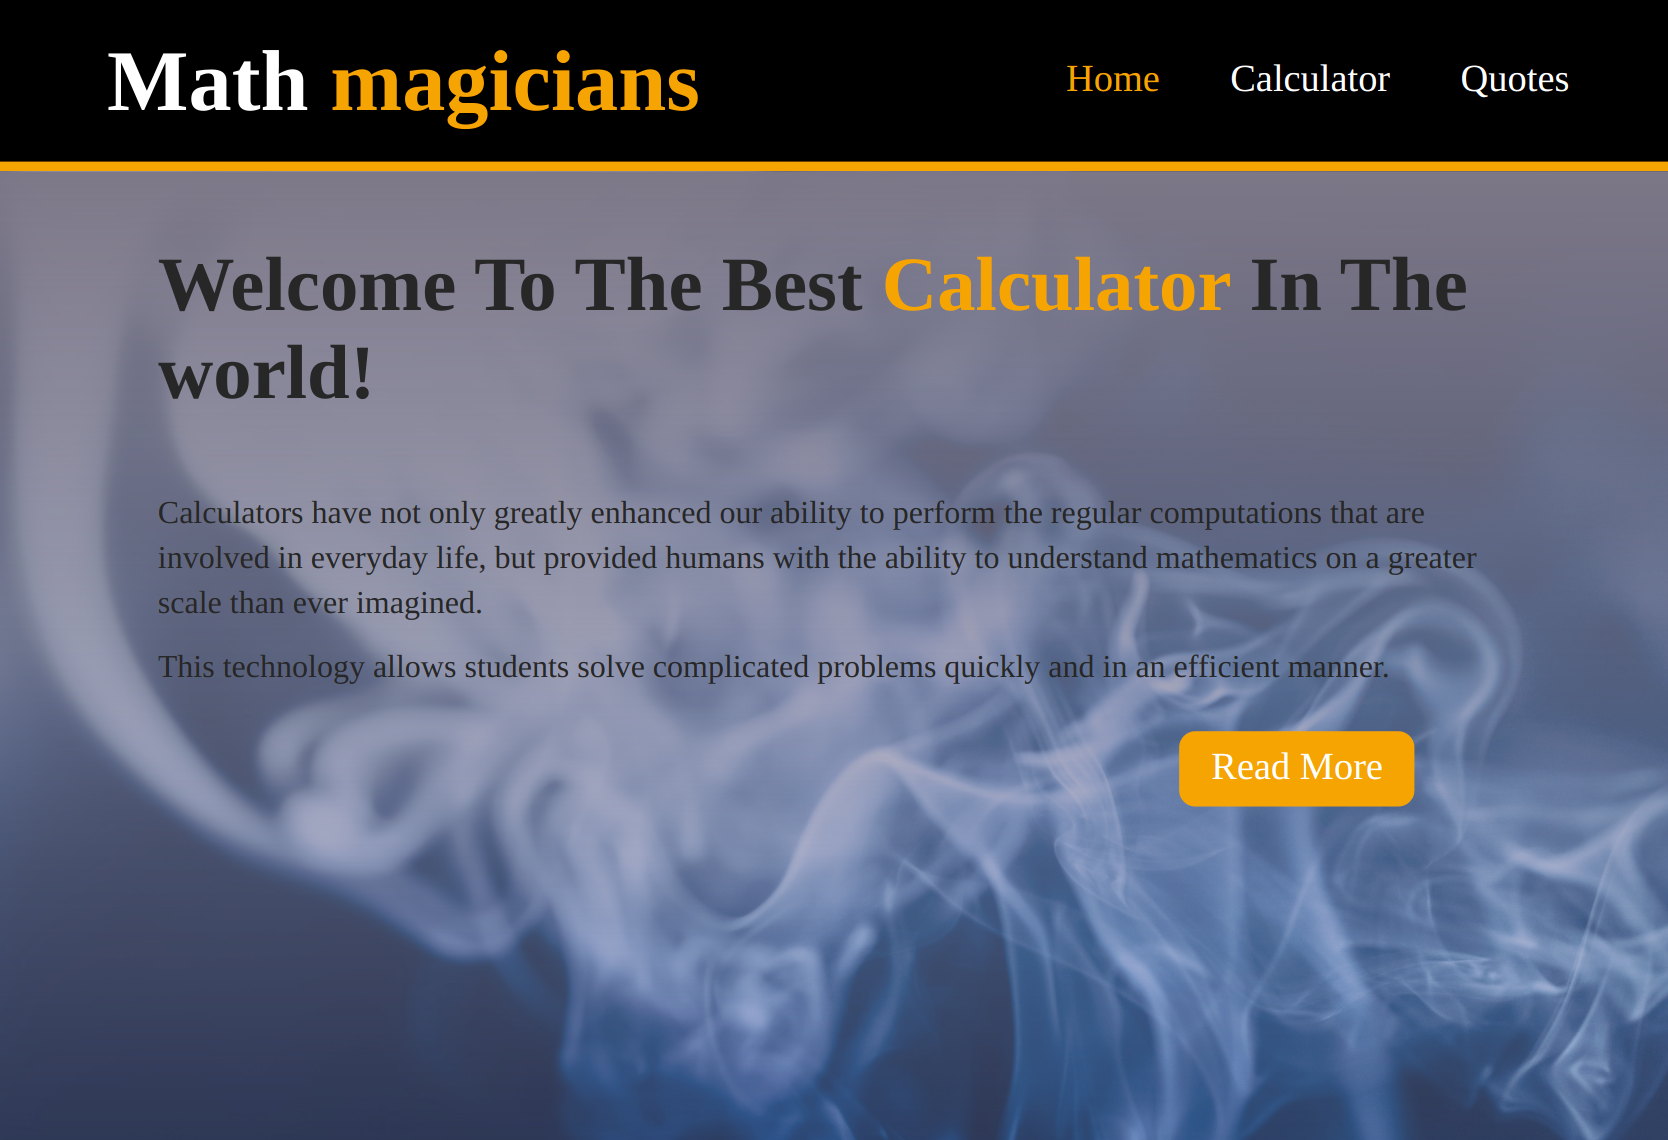
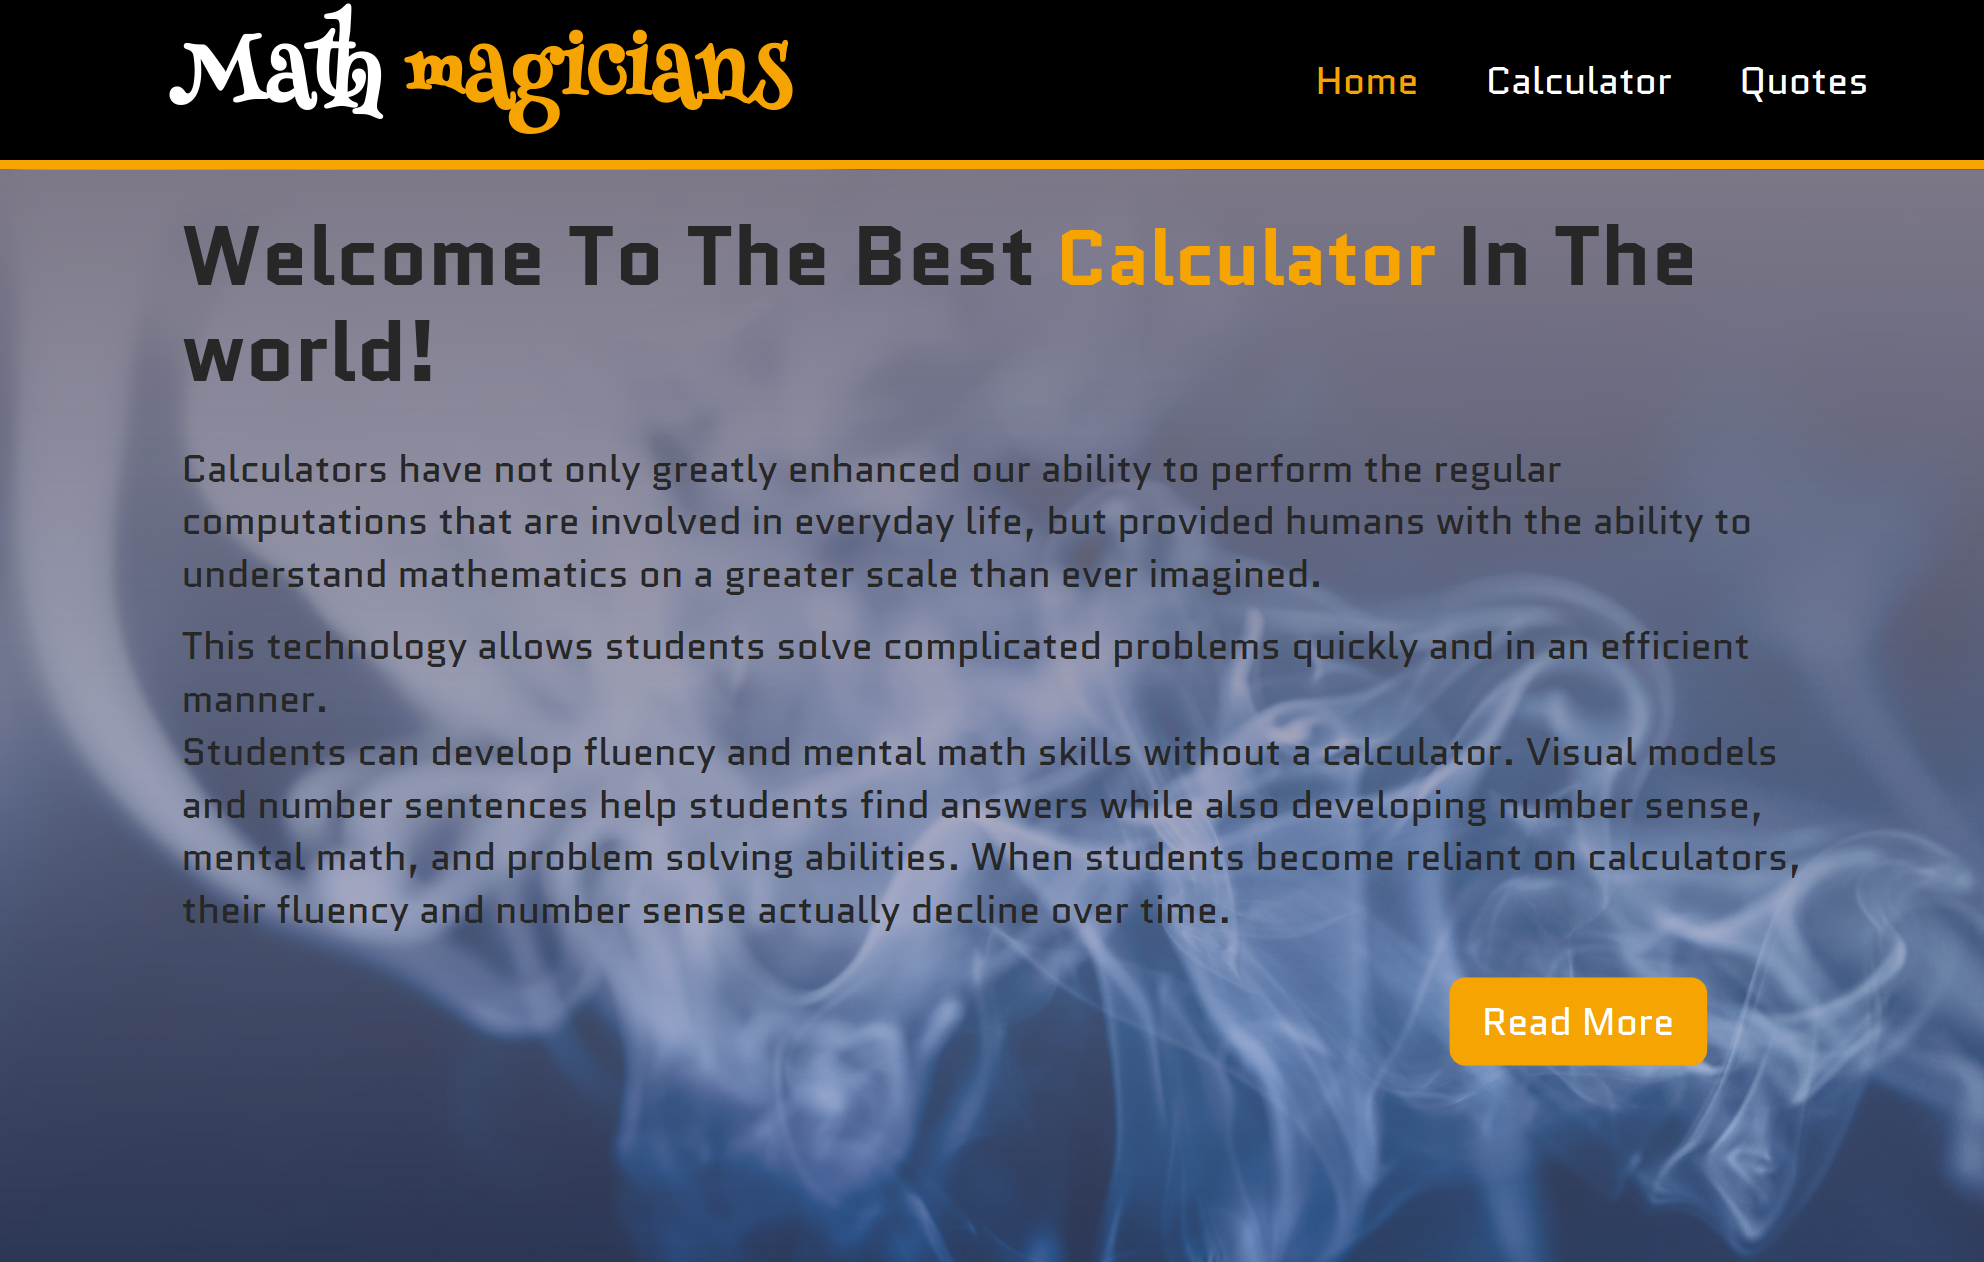
Update README pictures

diff --git a/src/css/App.css b/src/css/App.css
@@ -44,9 +44,11 @@ h1 {
   color: #fff;
   line-height: 80px;
   text-align: center;
+  font-family: "Henny Penny", cursive;
 }
 h1 span {
   color: orange;
+  font-family: "Henny Penny", cursive;
 }
 
 .nav-item {
@@ -64,7 +66,7 @@ h1 span {
 
 .second-title {
   font-size: 2.4rem;
-  line-height: 3rem;
+  line-height: 2.8rem;
   color: #272727;
 }
 .second-title span {
@@ -79,7 +81,7 @@ section.home-section .paragraph {
   padding: 1rem 0;
 }
 section.home-section .paragraph p {
-  font-size: 1.4rem;
+  font-size: 1.2rem;
 }
 section.home-section .show {
   display: none;
@@ -110,8 +112,9 @@ section.quote-section {
 }
 section.quote-section p {
   font-size: 1.4rem;
-  line-height: 3rem;
-  letter-spacing: 2px;
+  font-weight: 700;
+  line-height: 2.8rem;
+  letter-spacing: 1.8px;
   font-family: "Henny Penny", cursive;
 }
 
@@ -231,7 +234,6 @@ main .calculator-section .keyItem:last-child button:first-child {
   }
   main .home-section h2 {
     font-size: 2.4rem;
-    padding: 1rem 0;
   }
 }
 @media screen and (min-width: 768px) {
@@ -255,8 +257,8 @@ main .calculator-section .keyItem:last-child button:first-child {
   }
 
   main .home-section h2 {
-    font-size: 2.9rem;
-    line-height: 3.8rem;
+    font-size: 2.6rem;
+    line-height: 3rem;
   }
   main .keyItem .btn {
     height: 70px;

diff --git a/src/scss/App.scss b/src/scss/App.scss
@@ -14,7 +14,6 @@
 
 body {
   width: 100%;
-  // height: 100%;
   background-color: #f9f9f9;
 }
 
@@ -36,12 +35,10 @@ main {
     height: 100vh;
     flex-direction: column;
     justify-content: flex-start;
-    // align-items: flex-start;
     padding: 0 1rem;
     text-align: center  ;
 
     h2 {
-      // width: 30%;
       font-size: 2rem;
       font-family: 'Henny Penny', cursive;
       letter-spacing: 4px;
@@ -51,7 +48,6 @@ main {
 
   .calculator-section {
     max-width: 500px;
-    // width: 70%;
     border: 1px solid $text-color;
 
     .input {

diff --git a/src/scss/_responsive.scss b/src/scss/_responsive.scss
@@ -41,7 +41,7 @@
 
       h2 {
         font-size: 2.4rem;
-        padding: 1rem 0;
+        // padding: 1rem 0;
       }
     }
   }
@@ -75,8 +75,8 @@
   main {
     .home-section {
       h2 {
-        font-size: 2.9rem;
-        line-height: 3.8rem;
+        font-size: 2.6rem;
+        line-height: 3rem;
       }
     }
 

diff --git a/src/components/Home.js b/src/components/Home.js
@@ -4,7 +4,7 @@ const Home = () => (
   <section className="home-section">
     <h2 className="second-title">
       Welcome To The Best
-      <span> Calculator </span>
+      <span className="second-title"> Calculator </span>
       In The world!
     </h2>
     <div className="paragraph">

diff --git a/src/scss/_home.scss b/src/scss/_home.scss
@@ -1,6 +1,6 @@
 .second-title {
   font-size: 2.4rem;
-  line-height: 3rem;
+  line-height: 2.8rem;
   color: $text-color;
 
   span {
@@ -17,7 +17,7 @@ section.home-section {
 
     p {
       @extend %parag;
-      font-size: 1.4rem;
+      font-size: 1.2rem;
     }
   }
 

diff --git a/src/scss/_quote.scss b/src/scss/_quote.scss
@@ -8,8 +8,9 @@ section.quote-section {
   p {
     @extend %parag;
     font-size: 1.4rem;
-    line-height: 3rem;
-    letter-spacing: 2px;
+    font-weight: 700;
+    line-height: 2.8rem;
+    letter-spacing: 1.8px;
 
     font-family: 'Henny Penny', cursive;
 }

diff --git a/src/scss/nav.scss b/src/scss/nav.scss
@@ -20,9 +20,11 @@ h1 {
   color: $primary-color;
   line-height: 80px;
   text-align: center;
+  font-family: 'Henny Penny', cursive;
 
   span {
     color: $secondary-color;
+    font-family: 'Henny Penny', cursive;
   }
 }
 
